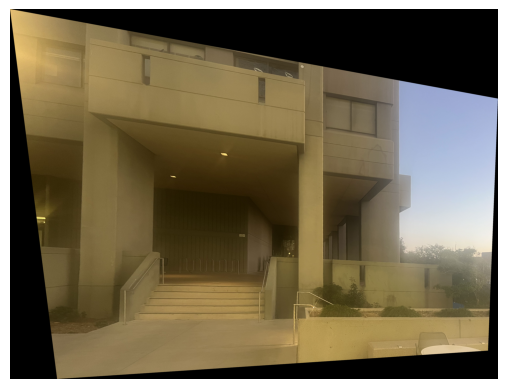
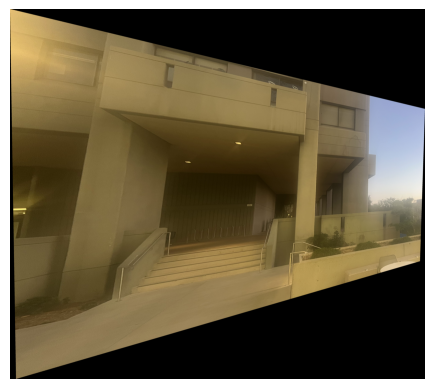
fixed rectification again proj3

diff --git a/3/index.html b/3/index.html
@@ -176,7 +176,7 @@
             In this part, I implemented the warpImageNearestNeighbor(im, H) and warpImageBilinear(im, H) functions using inverse warping to warp an image im using the homography matrix H. For each coordinate (u,v) in the target coordinate system, I calculated (x,y) = H_inv*(u,v,1) to sample the source image.
             The warpImageNearestNeighbor function uses nearest neighbor interpolation, while the warpImageBilinear function uses bilinear interpolation for resampling the pixel values.
             I then used these functions to warp the center image onto the left image's coordinate system, for both sets of photographs.
-            Here are my rectification results (for the room picture, I used the monitor on my desk as the rectangle, and for the campus picture, I used the rectangle on the right side of the building):
+            Below are my rectification results. Note that for the room picture, I used the monitor on my desk as the rectangle, and since the bottom right corner was slightly out of frame, I just picked the best possible point that was in the frame. For the campus picture, I used the rectangle on the right side of the building which looks like it contains three rectangles side by side.
         </p>
         <p class="description">
             For nearest neighbor interpolation, I simply rounded the (x,y) coordinates to the nearest integer values and used those to index into the source image to get the pixel value.
